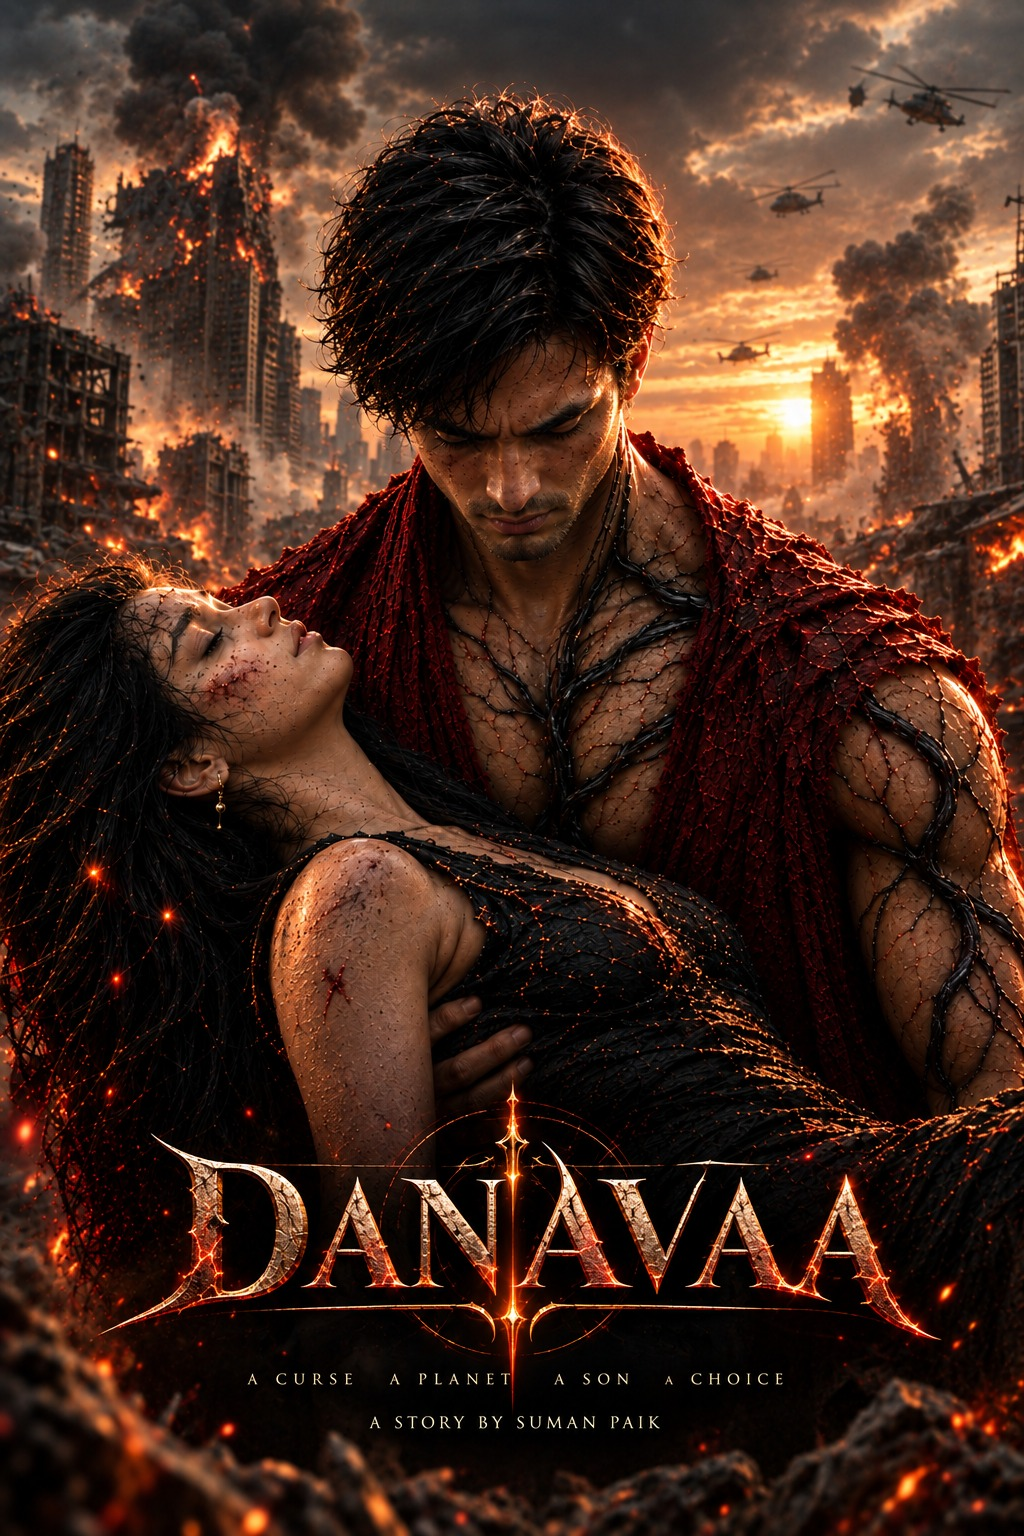
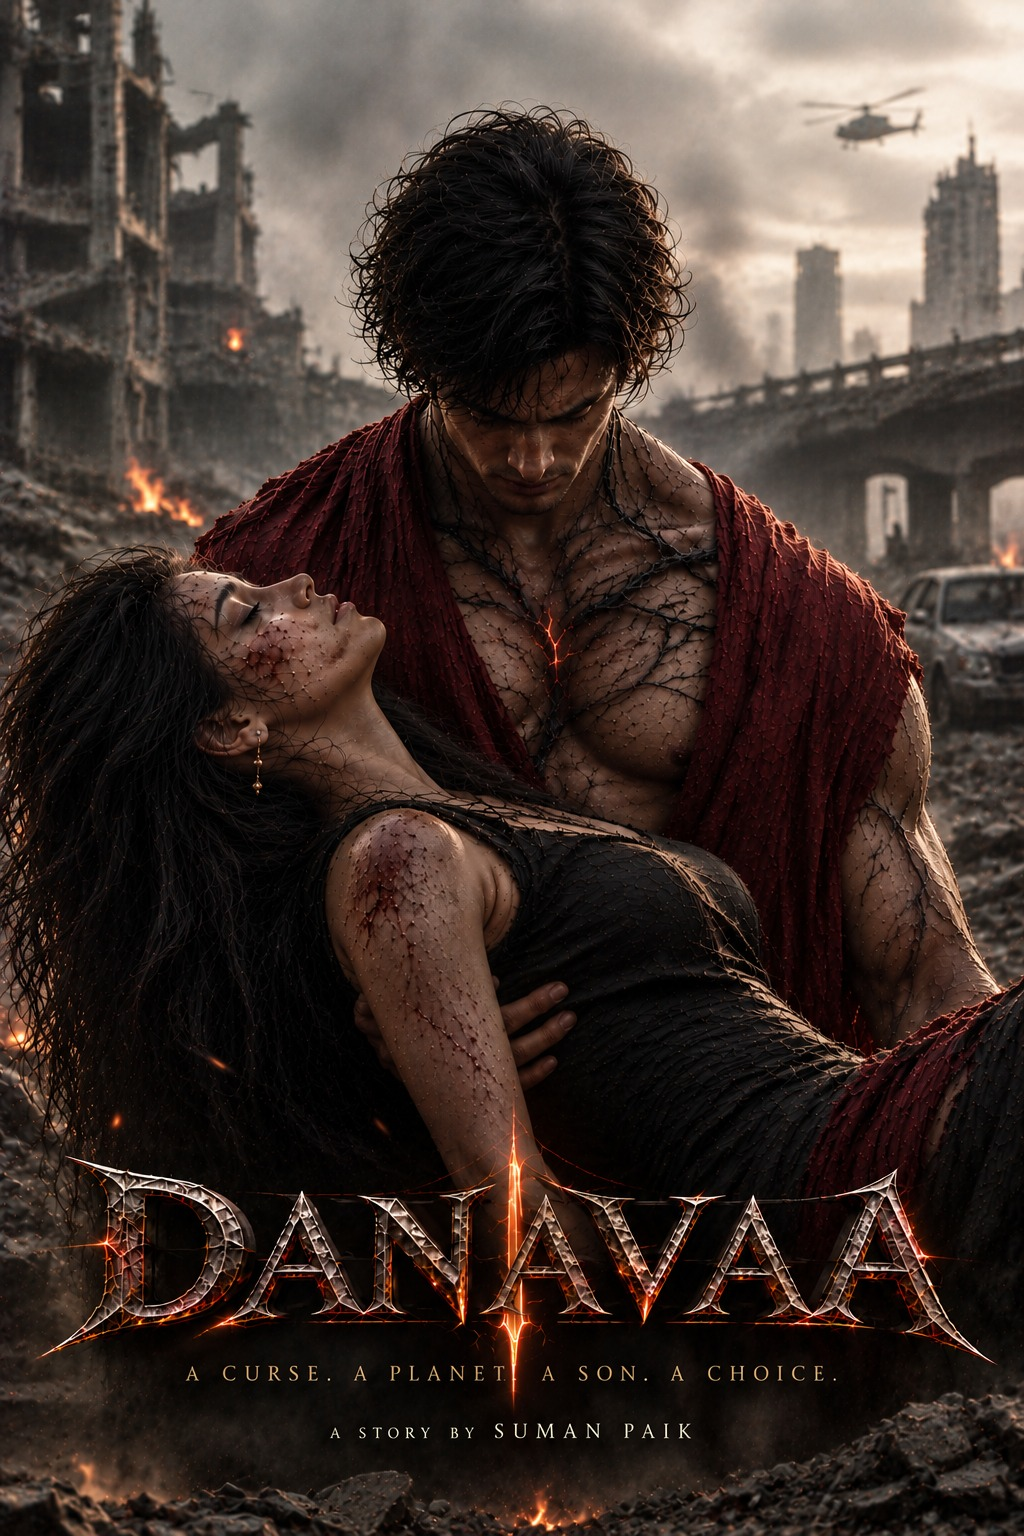
ostrich poster added

diff --git a/data.js b/data.js
@@ -51,9 +51,9 @@ window.PORTFOLIO_DATA = {
       title: "Ostrich: The Freedom Trap",
       type: "Feature Film",
       year: "",
-      status: "",
+      status: "working on it...",
       copyright: "",
-      poster: "",
+      poster: "assets/poster/ostrich.jpg",
       logline: "",
       genre: "",
       themes: "",
